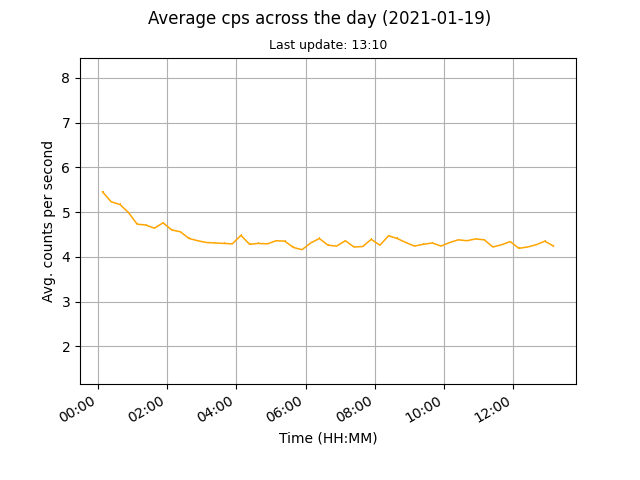
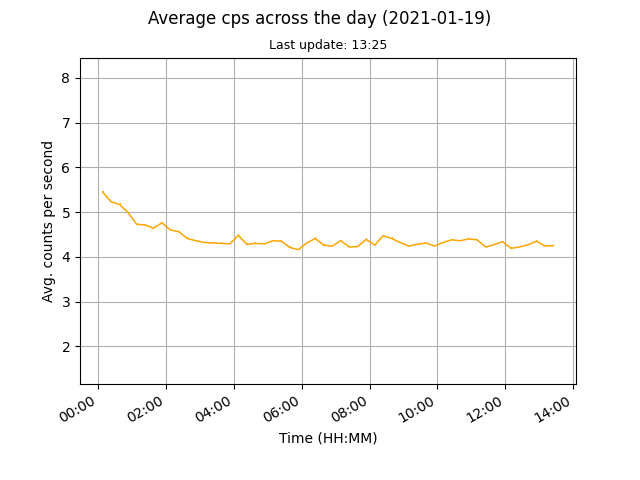
auto data update

diff --git a/docs/index.html b/docs/index.html
@@ -45,8 +45,8 @@
 	
 	<br>
 	
-	<p>Current counts per second (cps): 4.24</p>
-	<p>Last update: 2021-01-19, 13:10</p>
+	<p>Current counts per second (cps): 4.25</p>
+	<p>Last update: 2021-01-19, 13:25</p>
 
 	<p><a href="images/monthly.png"><img src="images/monthly.png" alt="Mothly avg cps data"></a><a href="images/daily.png"><img src="images/daily.png" alt="Daily avg cps data"></a></p>
 	
